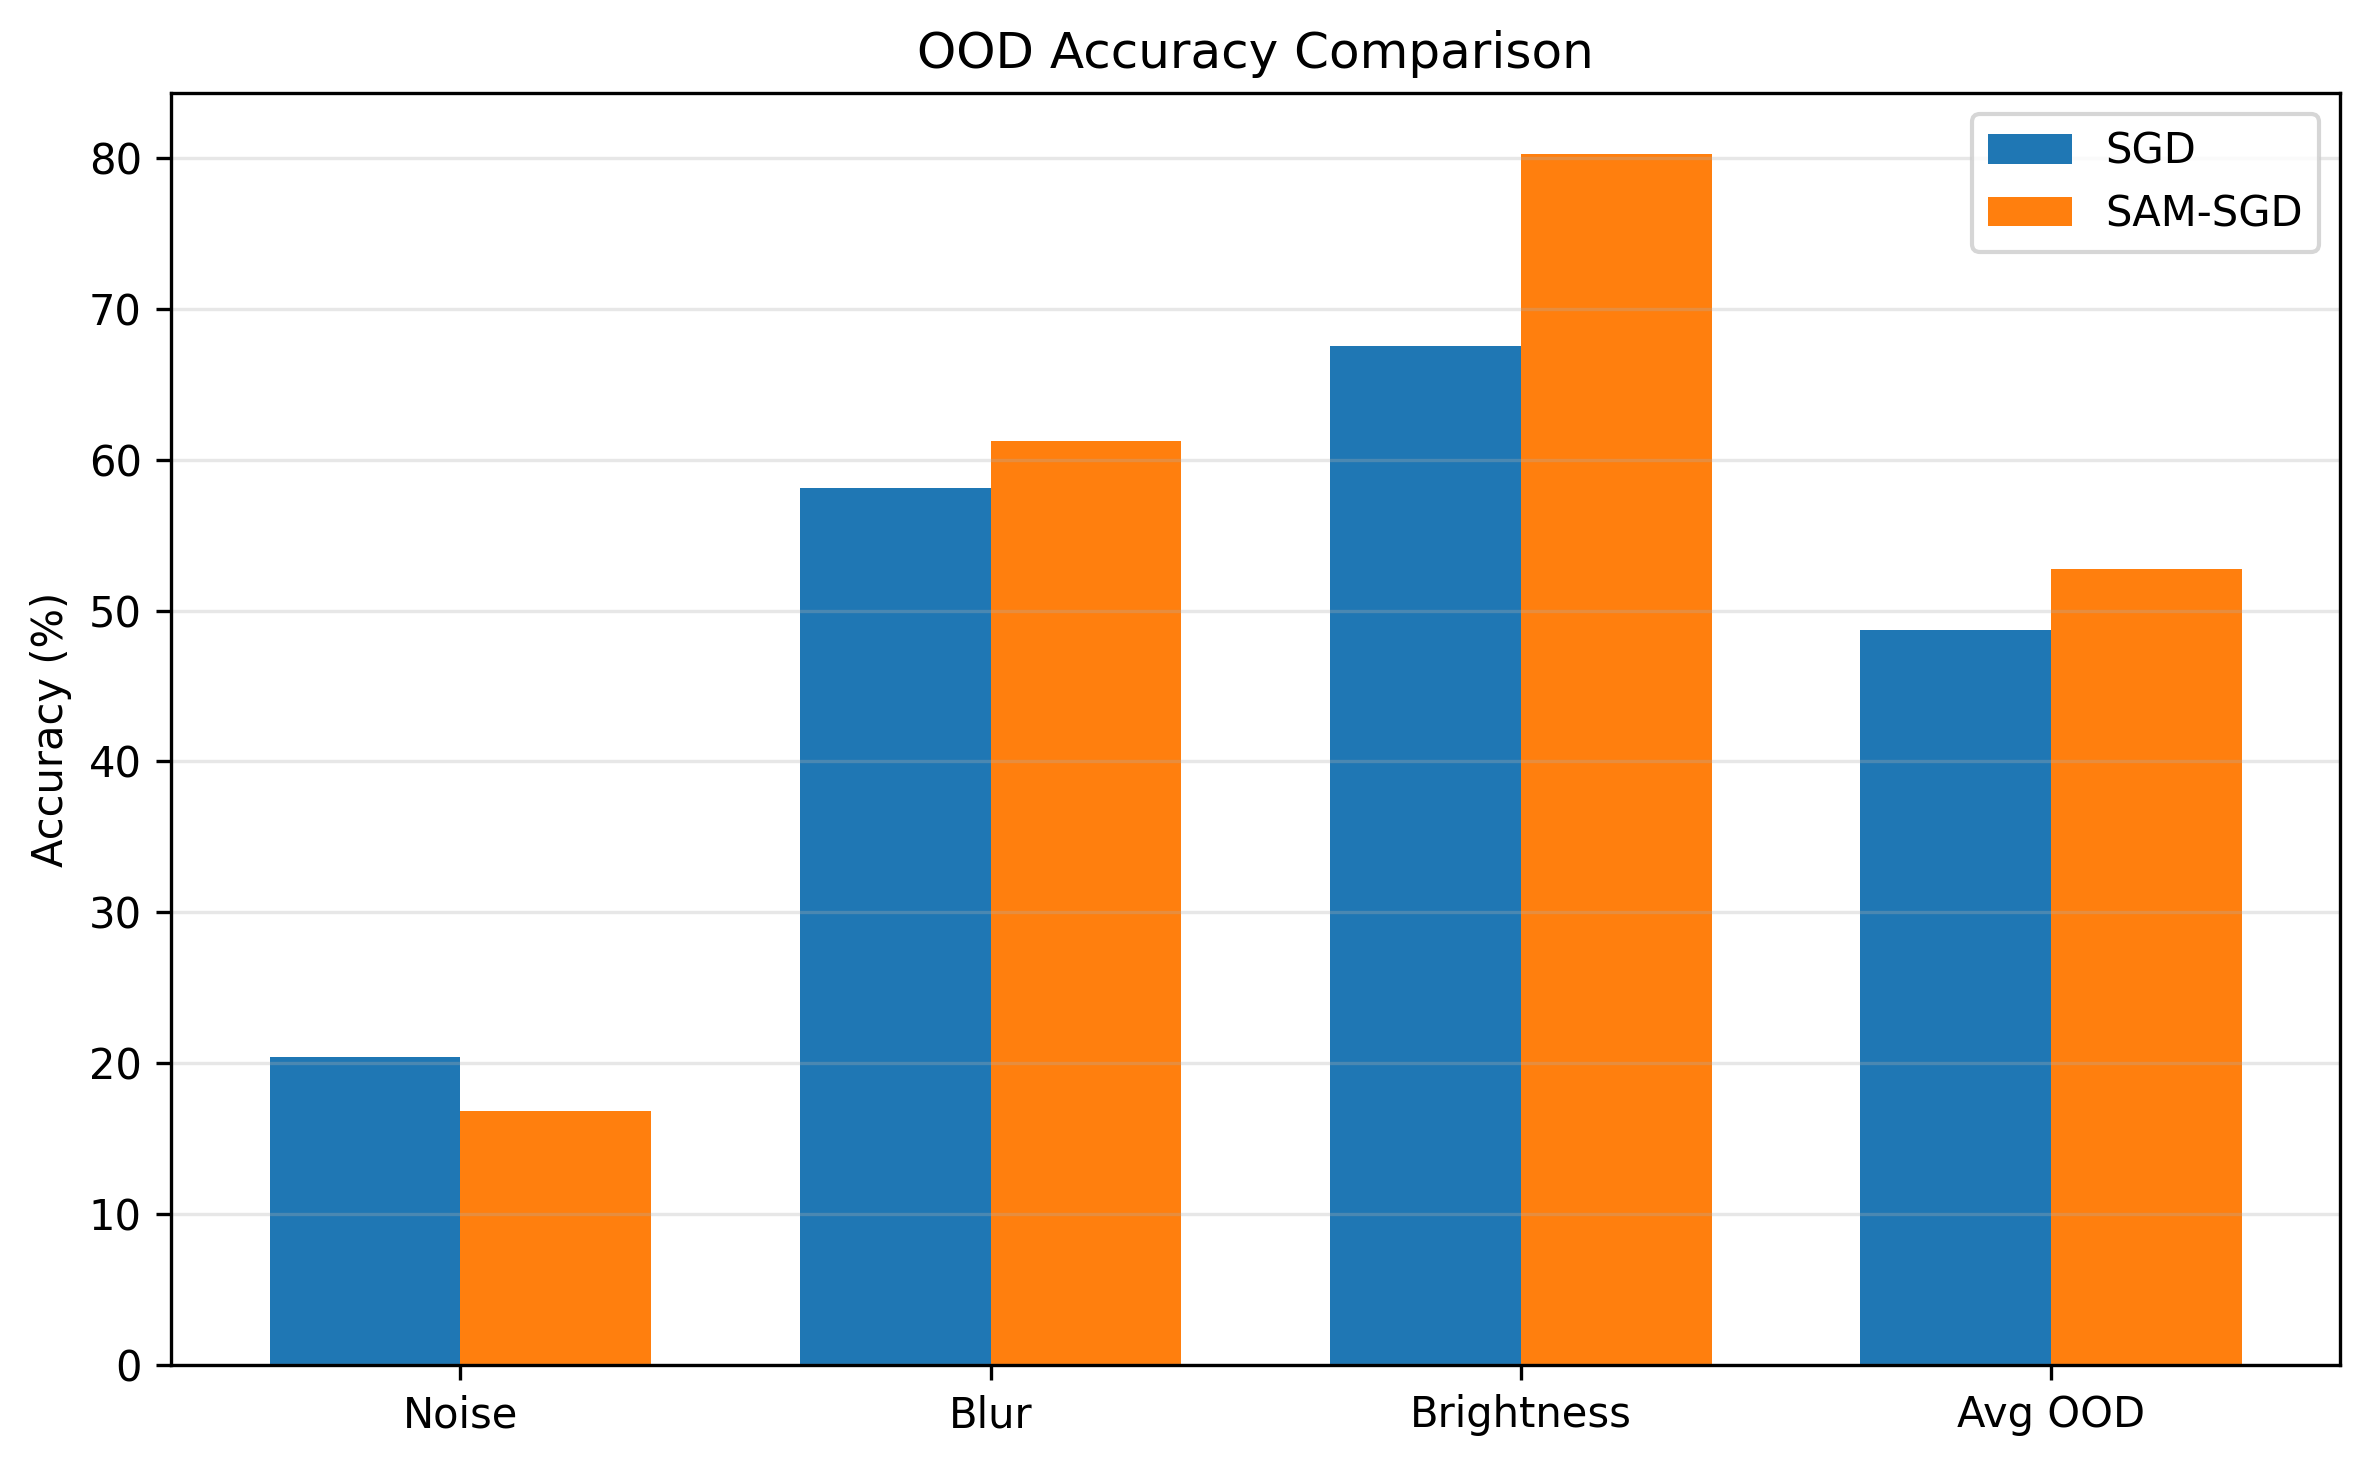
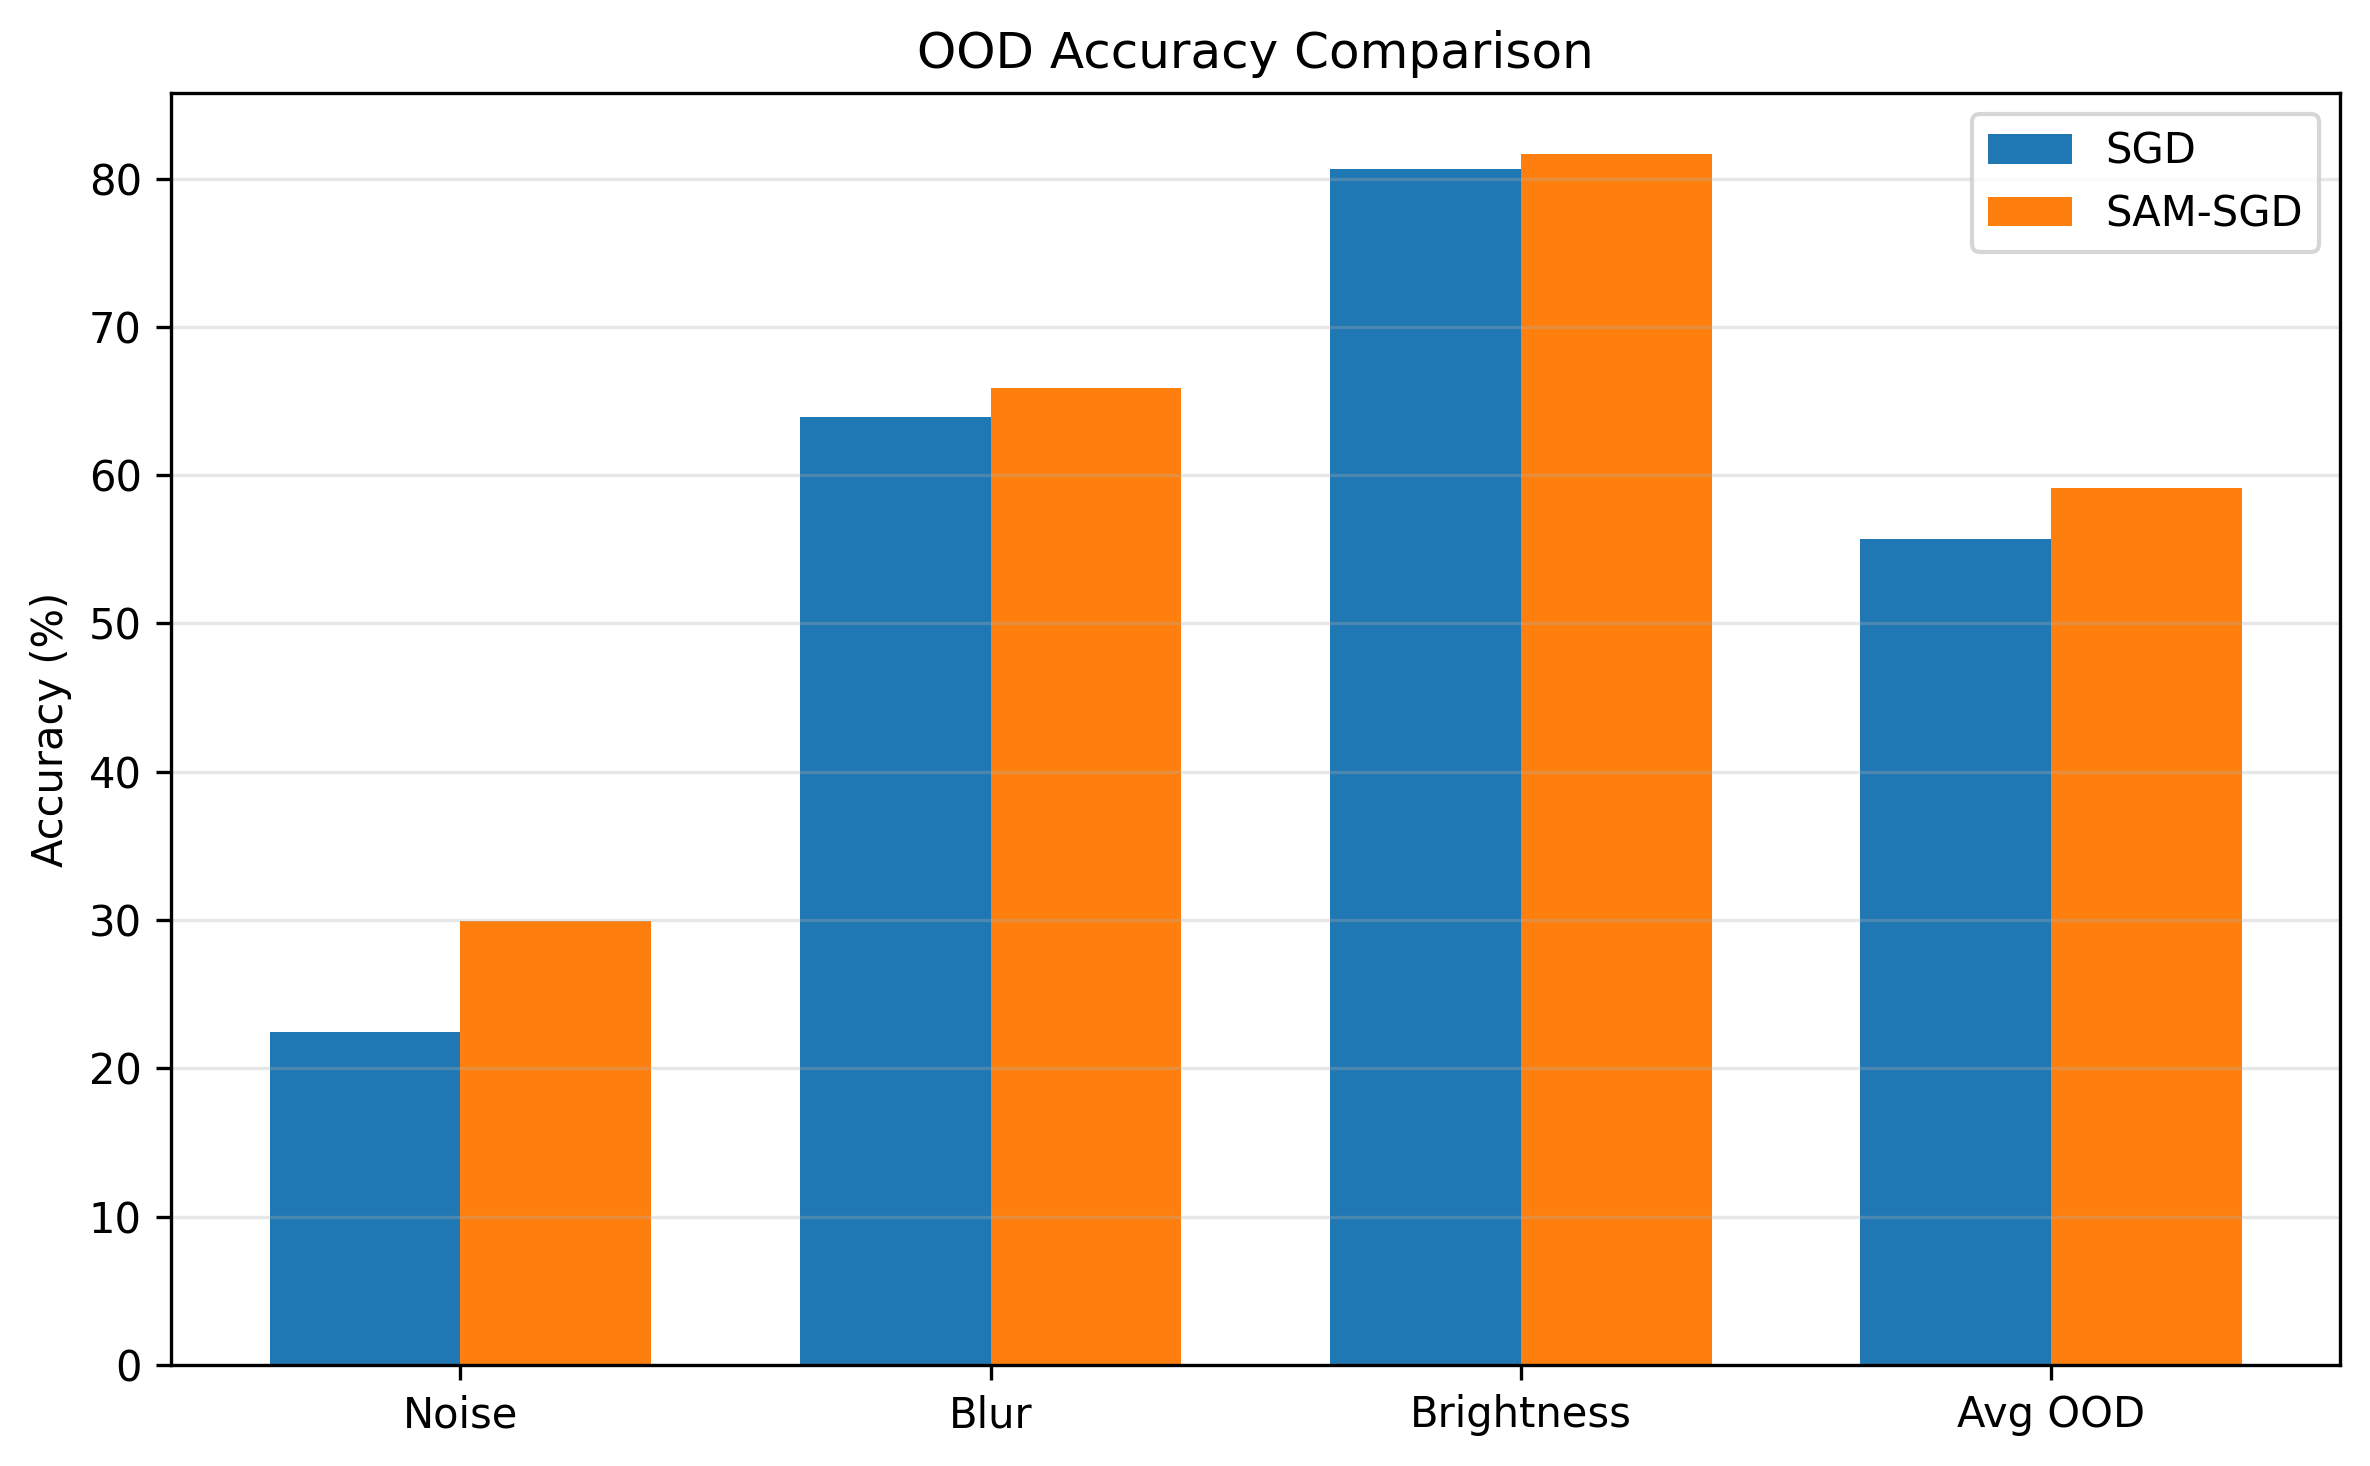
Add final Part A Colab results

diff --git a/README.md b/README.md
@@ -114,6 +114,28 @@ id_ood_acc_drop
 
 The updated training logs store one row per epoch with train, ID, and OOD metrics. These logs support trajectory plots and justify separating `last`, `best_id`, and `best_ood`.
 
+## Latest Colab Results
+
+The current Part A results were generated on Google Colab with GPU using the updated checkpoint strategy. The full CSV files are in `results/`, and checkpoints have been shared with group members through Google Drive.
+
+Summary from `results/summary_table.csv`:
+
+```text
+Optimizer  Checkpoint  Epoch  ID Acc  OOD Noise  OOD Blur  OOD Brightness  Avg OOD Acc
+SGD        last        50     0.8024  0.2296     0.6068    0.7437          0.5267
+SGD        best_id     40     0.8682  0.1159     0.5917    0.8155          0.5077
+SGD        best_ood    41     0.8477  0.2246     0.6391    0.8066          0.5568
+SAM-SGD    last        50     0.8460  0.1805     0.6538    0.7756          0.5366
+SAM-SGD    best_id     45     0.8758  0.1444     0.5986    0.8346          0.5259
+SAM-SGD    best_ood    17     0.8622  0.2994     0.6587    0.8169          0.5917
+```
+
+Main Part A takeaway:
+
+- SAM-SGD improves the best ID checkpoint over SGD (`0.8758` vs `0.8682`).
+- SAM-SGD improves the best average OOD checkpoint over SGD (`0.5917` vs `0.5568`).
+- The OOD improvement is corruption-dependent, so noise, blur, and brightness should be discussed separately instead of only reporting average OOD accuracy.
+
 ## Expected Checkpoints
 
 ```text
@@ -146,5 +168,6 @@ figures/summary_table.png
 Generated datasets, checkpoints, logs, metrics, and figures are ignored by Git by default. For sharing:
 
 - upload source code and notebook files to GitHub;
+- upload lightweight CSV results and report PNG figures to GitHub when they are part of the report;
 - share `.pt` checkpoints through Google Drive, not GitHub;
 - do not upload CIFAR-10 data, zip files, or large raw generated files.
